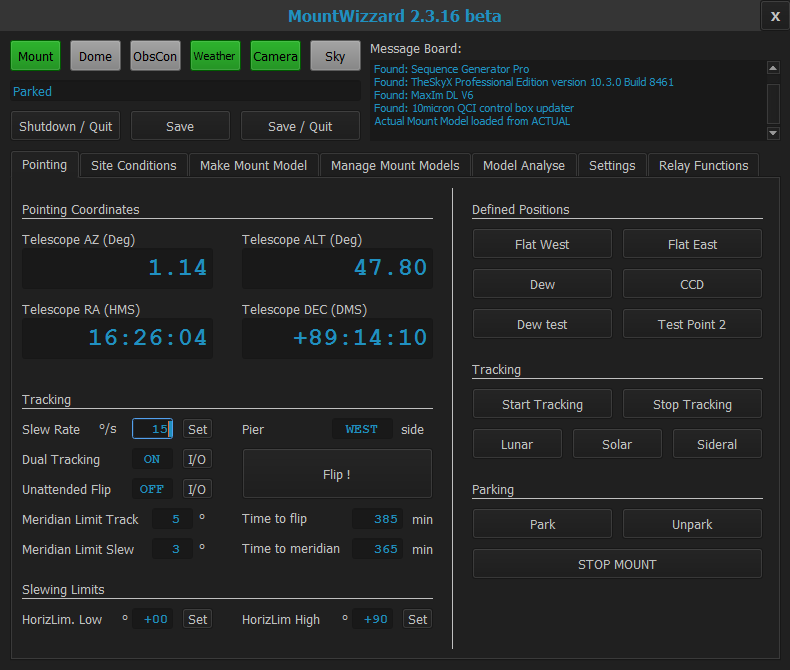
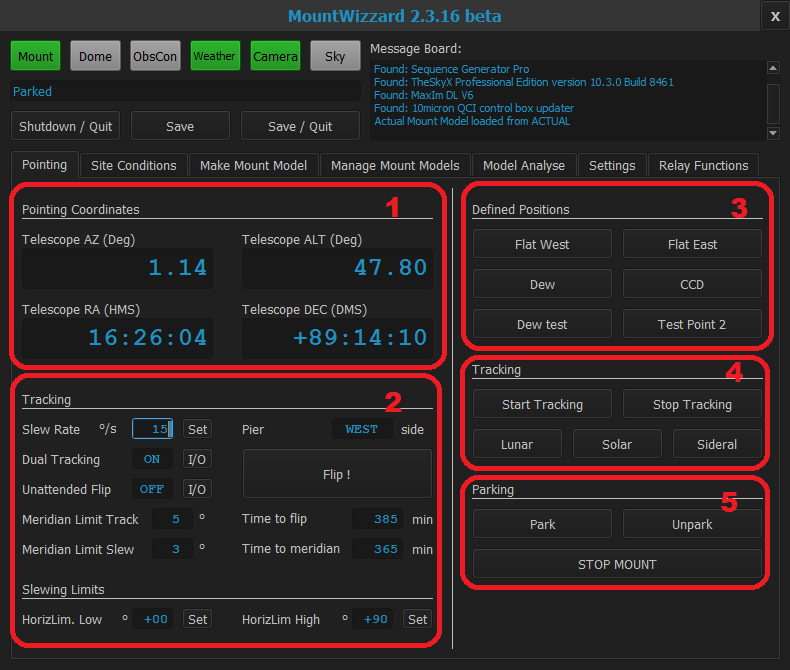
update documentation

Changed region(s): [[0.0, 0.2687, 1.0, 0.9552], [0.0304, 0.9552, 0.5468, 0.9851]]

diff --git a/mountwizzard/docu/firststeps1.md b/mountwizzard/docu/firststeps1.md
@@ -8,32 +8,32 @@ Just to know where you are.
 
 ### Area 2
 Area 2 is showing informations about the tracking status and the behaviour of the mount.
-#### - Slew rate
-Could be set by entering a new valid value, followed by pressing 'set'. If the value is not in the valid range, no change is
+
+<b>Slew rate</b> could be set by entering a new valid value, followed by pressing 'set'. If the value is not in the valid range, no change is
 introduced. If your mount driver could set the slew rate, this value could be overwritten by the driver.
-#### - Dual Tracking
-Could be toggled with the I/O button. Status is shown.
-#### - Unattended Flip
-Could be toggled with the I/O button. Status is shown.
-#### - Meridian Limit Track
-Status of the setting how for the mount tracks before doing a meridian flip. Positive numbers are after the meridian.
-#### - Meridian Limit Slew
-Status of the setting how for the mount slews before doing a meridian flip. Positive numbers are after the meridian.
-#### - Pier
-Shows East or West side, depending of the orientation.
-#### - Time to flip
-Shows the time in minutes how long the mount will track until the flip happens
-#### - Time to meridian
-Show the time in minutes how long the mount will track until the meridian is reached. Depending on the setting of Meridian Limits this
+
+<b>Dual Tracking</b> could be toggled with the I/O button. Status is shown.
+
+<b>Unattended Flip</b> could be toggled with the I/O button. Status is shown.
+
+<b>Meridian Limit Track</b> status of the setting how for the mount tracks before doing a meridian flip. Positive numbers are after the meridian.
+
+<b>Meridian Limit Slew</b> status of the setting how for the mount slews before doing a meridian flip. Positive numbers are after the meridian.
+
+<b>Pier</b> shows East or West side, depending of the orientation.
+
+<b>Time to flip</b> shows the time in minutes how long the mount will track until the flip happens
+
+<b>Time to meridian</b> show the time in minutes how long the mount will track until the meridian is reached. Depending on the setting of Meridian Limits this
 might be different from above value
-#### - Flip Button
-If the mount is in a status, where a manual meridian flip could be done, you could start it with pressing the button.
-#### - Slewing Limits
-The Horizon Limits for lower and higher side are shown. They could be changed by entering a new value and pressing 'set'
+
+<b>Flip Button</b> If the mount is in a status, where a manual meridian flip could be done, you could start it with pressing the button.
+
+<b>Slewing Limits</b> The Horizon Limits for lower and higher side are shown. They could be changed by entering a new value and pressing 'set'
 
 ### Area 3
 Area 3 offers 6 free programmable Button for slewing the mount to defined Azimuth / Altitude positions. The button text and the Az/Alt
-values could be set under settings/parkpositionconfig.
+values could be set under [park position config](settings3.md).
 
 ### Area 4
 Area 4 offers a direct function to set tracking speeds (lunar, solar, sideral) and you can start or stop tracking of the mount.
